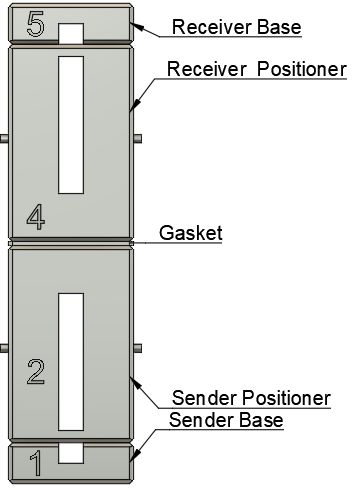
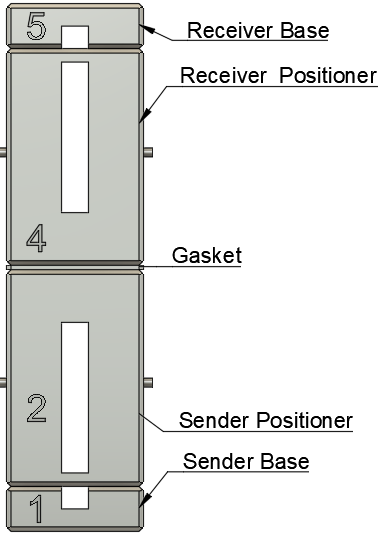
Improve full assembly image and remove definition images

Changed region(s): [[0.0, 0.0, 0.9322, 1.0], [0.4661, 0.1227, 0.9944, 0.1534], [0.0621, 0.7362, 0.1243, 0.7975]]

diff --git a/cart-transfer/index.md b/cart-transfer/index.md
@@ -6,18 +6,18 @@ These instructions will walk you through transfering from a dead or malfunctioni
 <img src="./images/full-assembly-labeled.png" alt="Full assembly" width="200"/>
 
 ## Definitions
- | Name | Description | Part Number | Drawing | 
+ | Name | Description | Part Number |
  |-----------|---------|-------------|---------|
- | Receiving Tube | Empty cartridge that is known to have a working element | N/A |  | 
- | Sending Tube | Cartridge that is full but isn't working | N/A |  | 
- | Receving Base | Screw holder for Receiving Tube. | No. 5 |  | 
- | Sending Base | Screw holder for Sending Tube | No. 1 |  | 
- | Receiving Positioner | Snap-fit block around Receiving Tube that aligns the flow channel. This is the one with holes to receive pins. | No. 4 |  | 
- | Sending Positioner | Snap-fit block around Sending Tube that aligns the flow channel. This is the one with pins sticking out. | No. 2 |  | 
- | Gasket | Flexible rubber seperater between Sending Positionier and Receiving Positioner. The side that has a bump sticking out goes into the Recieving Tube. | No. 3 |  | 
- | Receiving Block | Collective term for Receiving Base + Receiving Tube + Recieving Positioner | N/A |  | 
- | Sending Block | Collective term for Sending Base + Sending Tube + Sending Positioner | N/A |  | 
- | Sock | Flexible rubber container to keep alignment and compression during transfer | No. 6 |  | 
+ | Receiving Tube | Empty cartridge that is known to have a working element | N/A | 
+ | Sending Tube | Cartridge that is full but isn't working | N/A |
+ | Receving Base | Screw holder for Receiving Tube. | No. 5 |
+ | Sending Base | Screw holder for Sending Tube | No. 1 |
+ | Receiving Positioner | Snap-fit block around Receiving Tube that aligns the flow channel. This is the one with holes to receive pins. | No. 4 |
+ | Sending Positioner | Snap-fit block around Sending Tube that aligns the flow channel. This is the one with pins sticking out. | No. 2 |
+ | Gasket | Flexible rubber seperater between Sending Positionier and Receiving Positioner. The side that has a bump sticking out goes into the Recieving Tube. | No. 3 |
+ | Receiving Block | Collective term for Receiving Base + Receiving Tube + Recieving Positioner | N/A |
+ | Sending Block | Collective term for Sending Base + Sending Tube + Sending Positioner | N/A |
+ | Sock | Flexible rubber container to keep alignment and compression during transfer | No. 6 |
 
 
 ## Prerequsites
